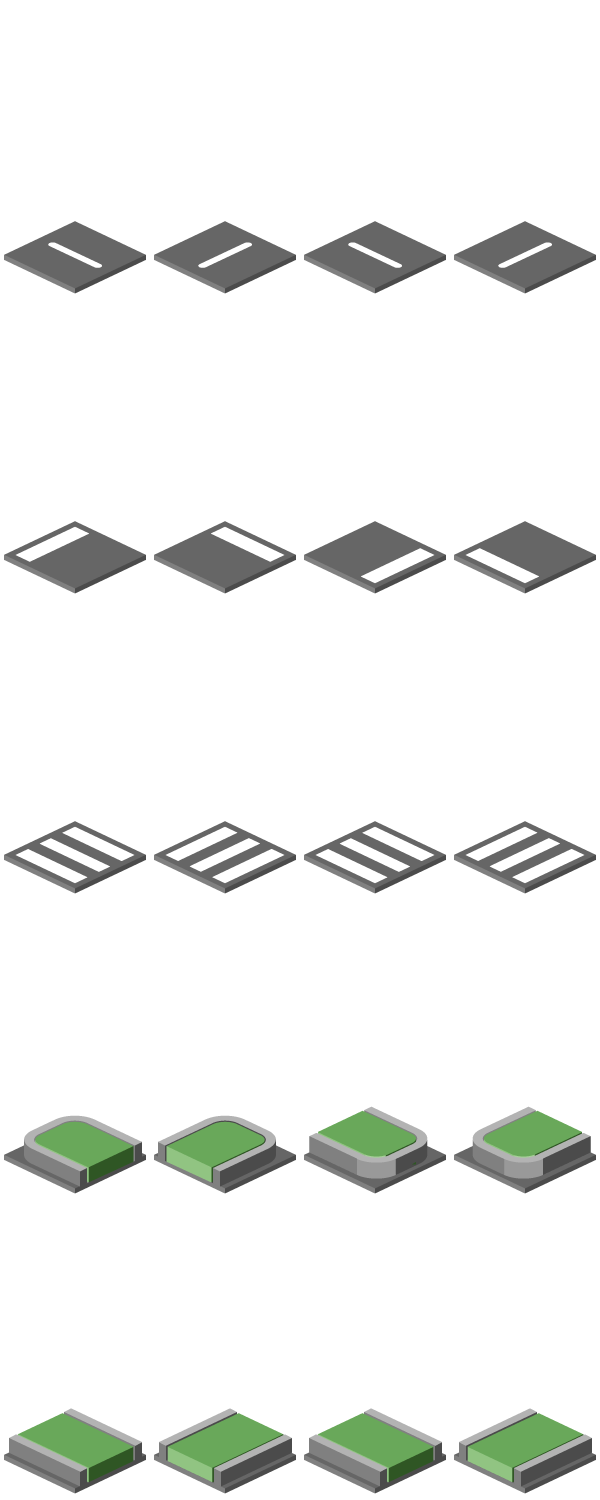
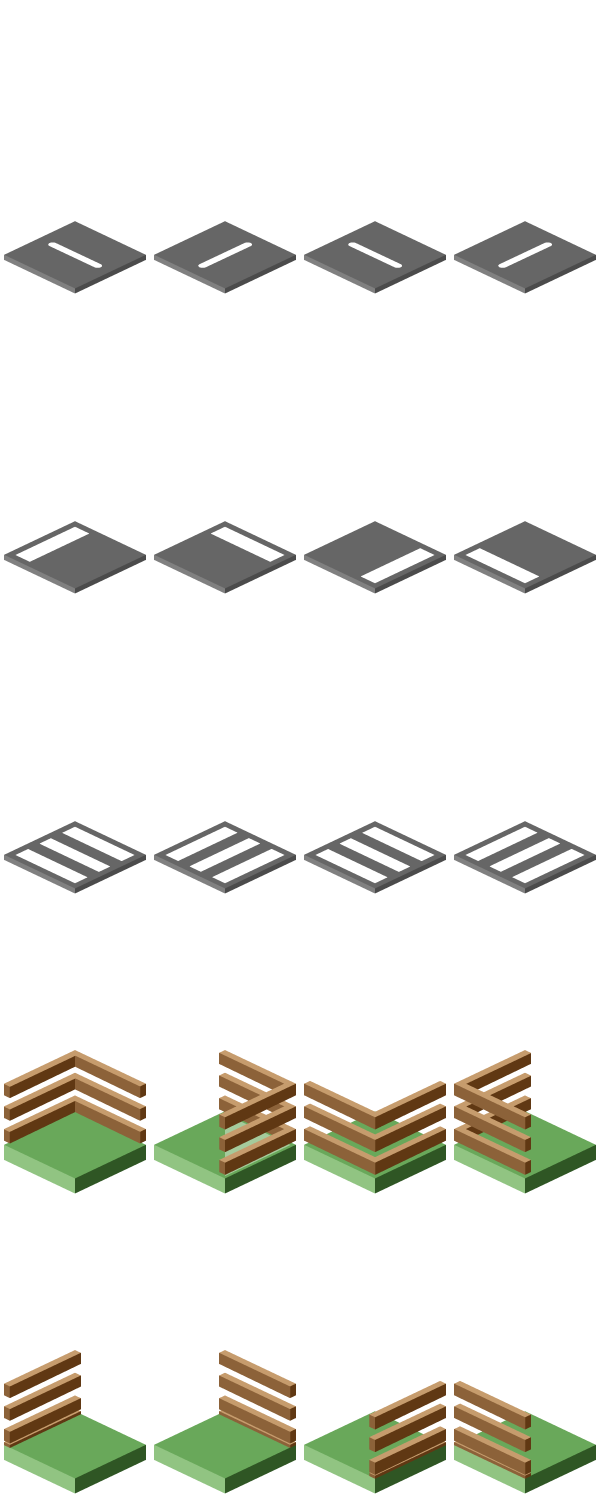
storage textures added

Changed region(s): [[0.0, 0.6747, 0.99, 0.7973], [0.0, 0.8893, 1.0, 1.0]]

diff --git a/js/levels_new.js b/js/levels_new.js
@@ -4,7 +4,7 @@ function assignStyles(){
 	var	columns=4,
 		rows=5,
 		perPage=20,
-		max=620, ///////////total textures
+		max=720, ///////////total textures
 		x=150, ////////////sprite width
 		y=2*x, //////////sprite height
 		divSize=document.createElement('style');
@@ -36,18 +36,18 @@ floor_0[0]=[,,,,,,,,,,,,,,,,,,,];
 floor_0[1]=[,,,,,,,,,,,,,,,,,,,];
 floor_0[2]=[,,,,,,,,,,,,,,,,,,,];
 floor_0[3]=[,,,,,,,,,,,,,,,,,,,];
-floor_0[4]=[,,,,25,18,18,62,66,70,74,78,25,18,18,26,,,,];
-floor_0[5]=[,,,,21,2,2,102,106,110,114,118,13,2,2,23,,,,];
-floor_0[6]=[,,,,21,2,2,146,14,14,14,14,9,2,2,23,,,,];
-floor_0[7]=[,,,,21,2,2,2,2,2,2,2,2,2,2,23,,,,];
-floor_0[8]=[,,,,21,2,2,2,2,2,2,2,2,2,2,23,,,,];
-floor_0[9]=[,,,,21,2,2,2,2,2,2,2,2,2,2,23,,,,];
-floor_0[10]=[,,,,129,2,2,149,151,2,2,149,151,2,2,23,,,,];
-floor_0[11]=[,,,,133,2,2,149,151,2,2,149,151,2,2,23,,,,];
-floor_0[12]=[,,,,137,2,2,149,151,2,2,149,151,2,2,23,,,,];
-floor_0[13]=[,,,,121,2,2,2,2,2,2,2,2,2,2,23,,,,];
-floor_0[14]=[,,,,141,2,2,2,2,2,2,2,2,2,2,23,,,,];
-floor_0[15]=[,,,,28,24,24,24,24,48,44,24,24,24,24,27,,,,];
+floor_0[4]=[,,,,641,710,714,646,646,646,646,686,690,646,646,642,,,,];
+floor_0[5]=[,,,,645,718,718,718,718,718,718,718,718,718,718,647,,,,];
+floor_0[6]=[,,,,645,718,718,718,718,718,718,718,718,718,718,647,,,,];
+floor_0[7]=[,,,,645,718,718,718,718,718,718,718,718,718,718,647,,,,];
+floor_0[8]=[,,,,645,718,718,718,718,718,718,718,718,718,718,647,,,,];
+floor_0[9]=[,,,,665,670,670,686,670,670,666,665,658,654,650,642,,,,];
+floor_0[10]=[,,,,705,718,718,718,718,718,671,669,718,718,718,647,,,,];
+floor_0[11]=[,,,,645,718,681,718,718,718,671,669,718,718,718,647,,,,];
+floor_0[12]=[,,,,645,718,718,718,718,718,671,669,718,718,718,647,,,,];
+floor_0[13]=[,,,,645,718,718,718,718,718,671,669,718,718,718,647,,,,];
+floor_0[14]=[,,,,645,718,718,718,718,718,718,718,718,718,718,647,,,,];
+floor_0[15]=[,,,,644,648,648,648,648,648,648,648,648,648,648,643,,,,];
 floor_0[16]=[,,,,,,,,,,,,,,,,,,,];
 floor_0[17]=[,,,,,,,,,,,,,,,,,,,];
 floor_0[18]=[,,,,,,,,,,,,,,,,,,,];

diff --git a/js/level_generator.js b/js/level_generator.js
@@ -131,6 +131,10 @@ function instanceColor(val,color){
 			if(val>540 && val<581 || val==601 || val==602){
 				return true;
 			}break;
+		case 'storage':
+			if(val>640 && val<661 || val >684 && val<701 || val==718){
+				return true;
+			}break;
 		default: break;
 	}
 }
@@ -140,6 +144,7 @@ function getColor(val){
 	if(val==445 || val==446) return 'green';
 	if(val==290 || val>199 && val<361) return 'blue';
 	if(val>540 && val<581 || val==601 || val==602) return 'street';
+	if(val>640 && val<661 || val >684 && val<701 || val==718) return 'storage';
 }
 function createSelectors(f,leng,color){
 	$('#selection *').remove();
@@ -277,11 +282,11 @@ $(document).ready(function(){
 	$('body').append('<div id="selection"/>');
 	
 	//startFloor(0,current_dir);
-	startFloor(1,current_dir);
-	startFloor(2,current_dir);
+	startFloor(0,current_dir);
+	//startFloor(1,current_dir);
 	//startFloor(3,current_dir);
-	rotateFloorButton(2);
-	startPlayer(2,posA,"street");
+	rotateFloorButton(0);
+	startPlayer(0,posA,'storage');
 });
 
 function rotateFloorButton(f){
@@ -323,7 +328,7 @@ function flipClass(arr,f,typ){
 	for(var g=0; g<arr.length; g++){
 		for(var i=0;i<arr[0].length; i++){
 			var t=arr[g][i];
-			if(t>4 && t<165 || t>185 && t<321 || t>360 && t<425 || t>540 && t<581){////yellow
+			if(t>4 && t<165 || t>185 && t<321 || t>360 && t<425 || t>540 && t<581 || t>640 && t<717){////yellow
 				var p;
 				switch(typ){
 					case "rot":

diff --git a/js/player_move.js b/js/player_move.js
@@ -22,7 +22,7 @@ function showNPC(pos,floor){
 	$('#selec'+floor+'_'+pos.y+'_'+pos.x).css('display','none');
 };
 
-var 	posA={y:18,x:18},
+var 	posA={y:6,x:12},
 	posB={y:"",x:""};
 var 	npcA={y:7, x:12};
 
@@ -32,10 +32,11 @@ function clickTile(floor){
 		$('.mapObj').remove();
 		posB={y:parseInt($(this).attr('ypos')),x:parseInt($(this).attr('xpos'))};
 
-		var	arr=rotateLevel(eval('floor_'+floor),current_dir),
+		var	//arr=rotateLevel(eval('floor_'+floor),current_dir),
+			arr=eval('floor_'+floor),
 			pos=rotatePlayerPos(current_dir,posA,eval('floor_'+floor).length),
 			color=getColor(eval('floor_'+floor)[posA.y][posA.x]),
-			player_route=starRoute(arr, posA, posB, color);
+			player_route=starRoute(arr, pos, posB, color);
 		//var	player_route=starRoute(rotateLevel(floor_2,"rot"),posA,posB,color);
 		//console.log(getDepths(player_route,floor));
 		animatePlayer=setInterval(function(){
